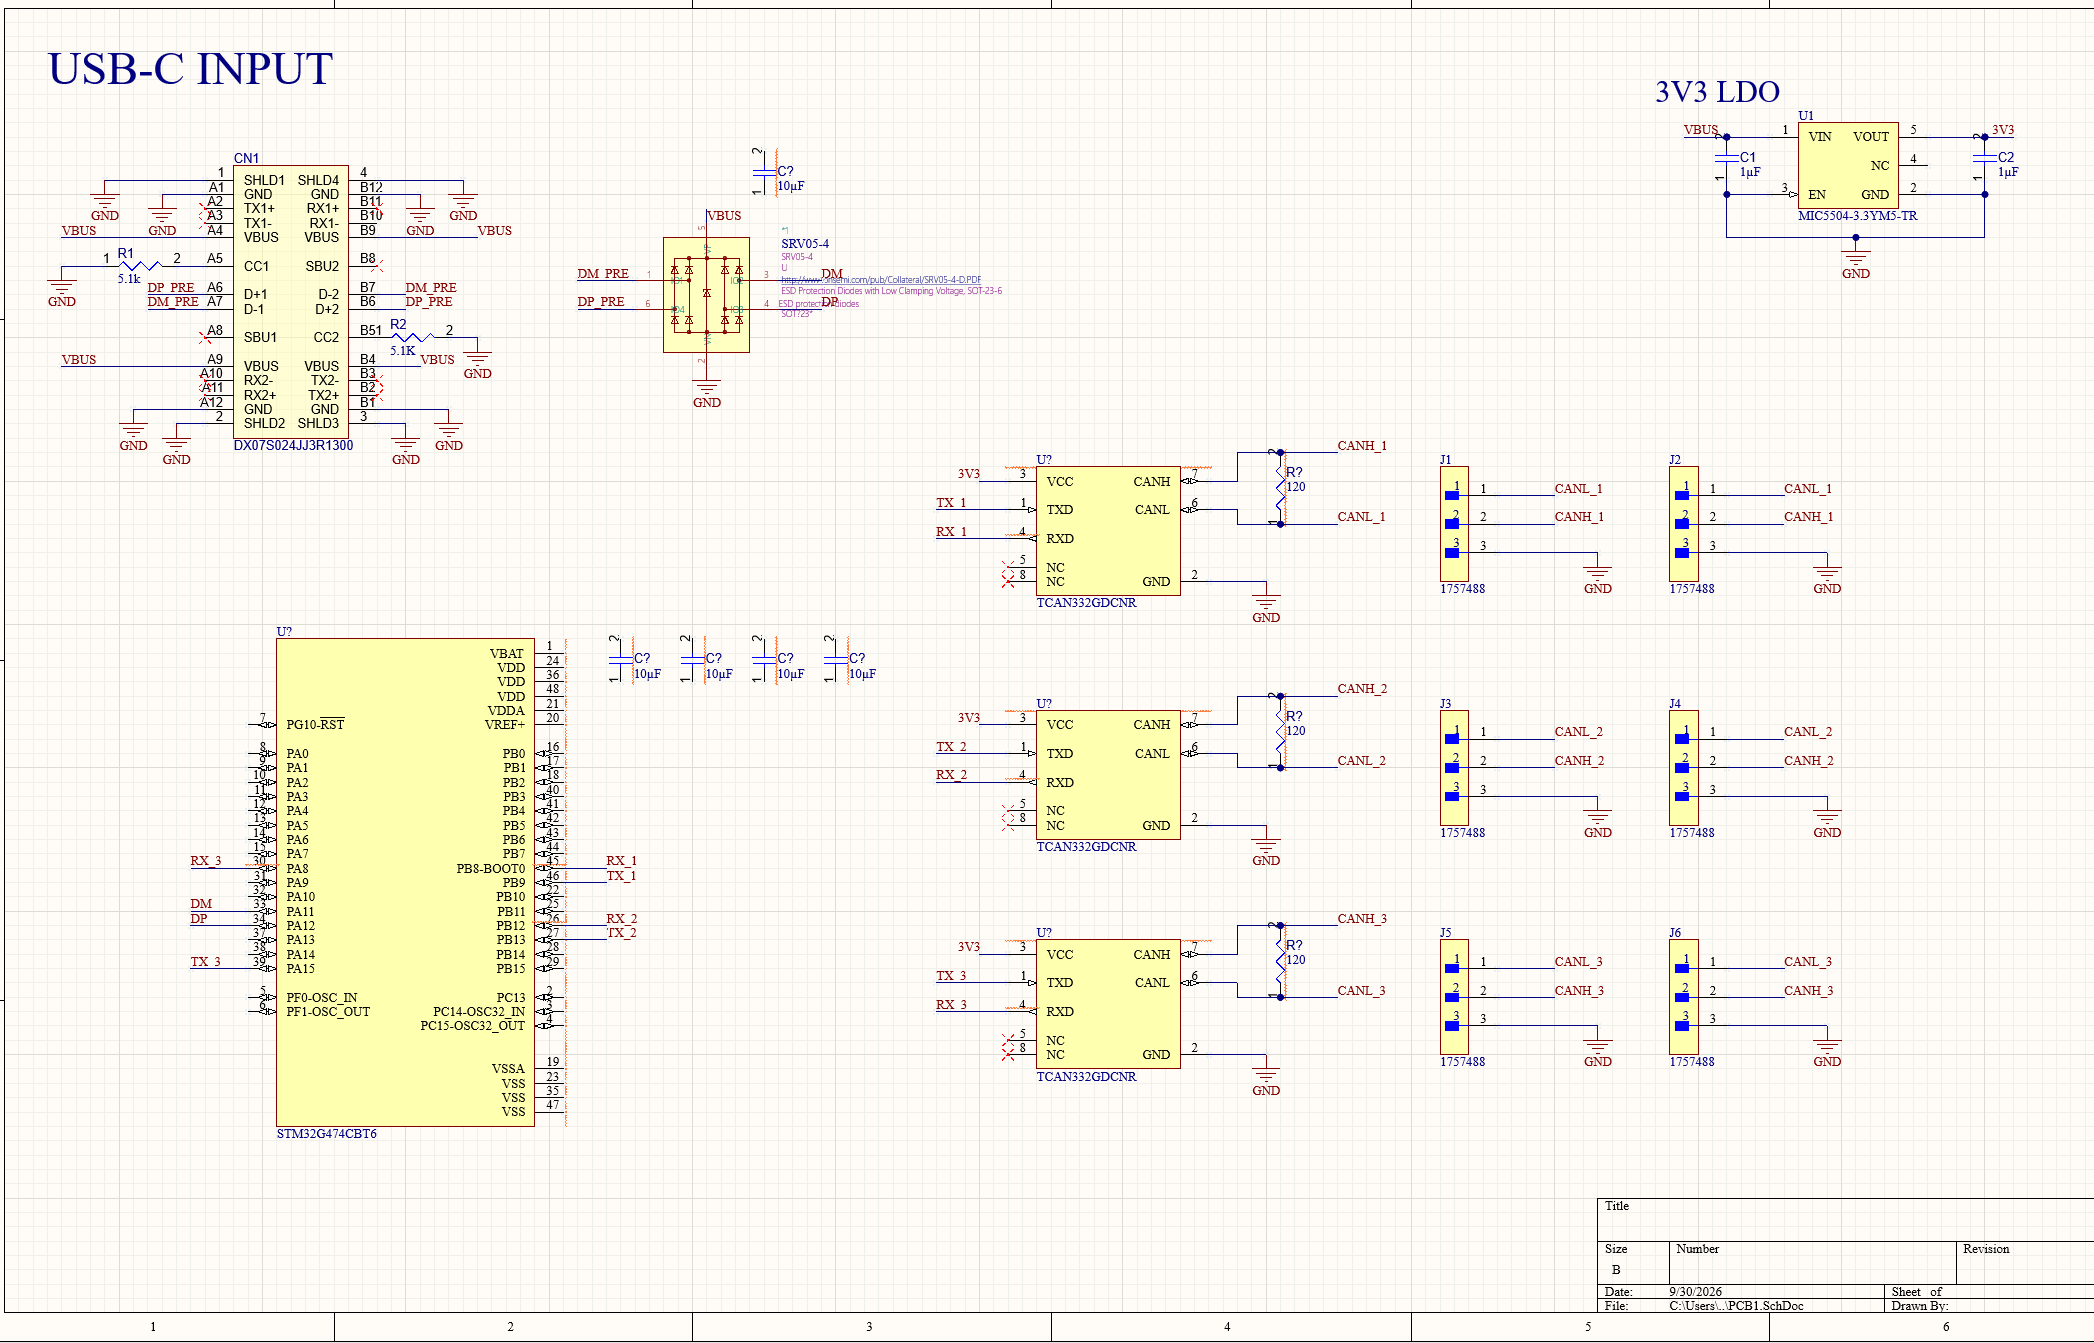
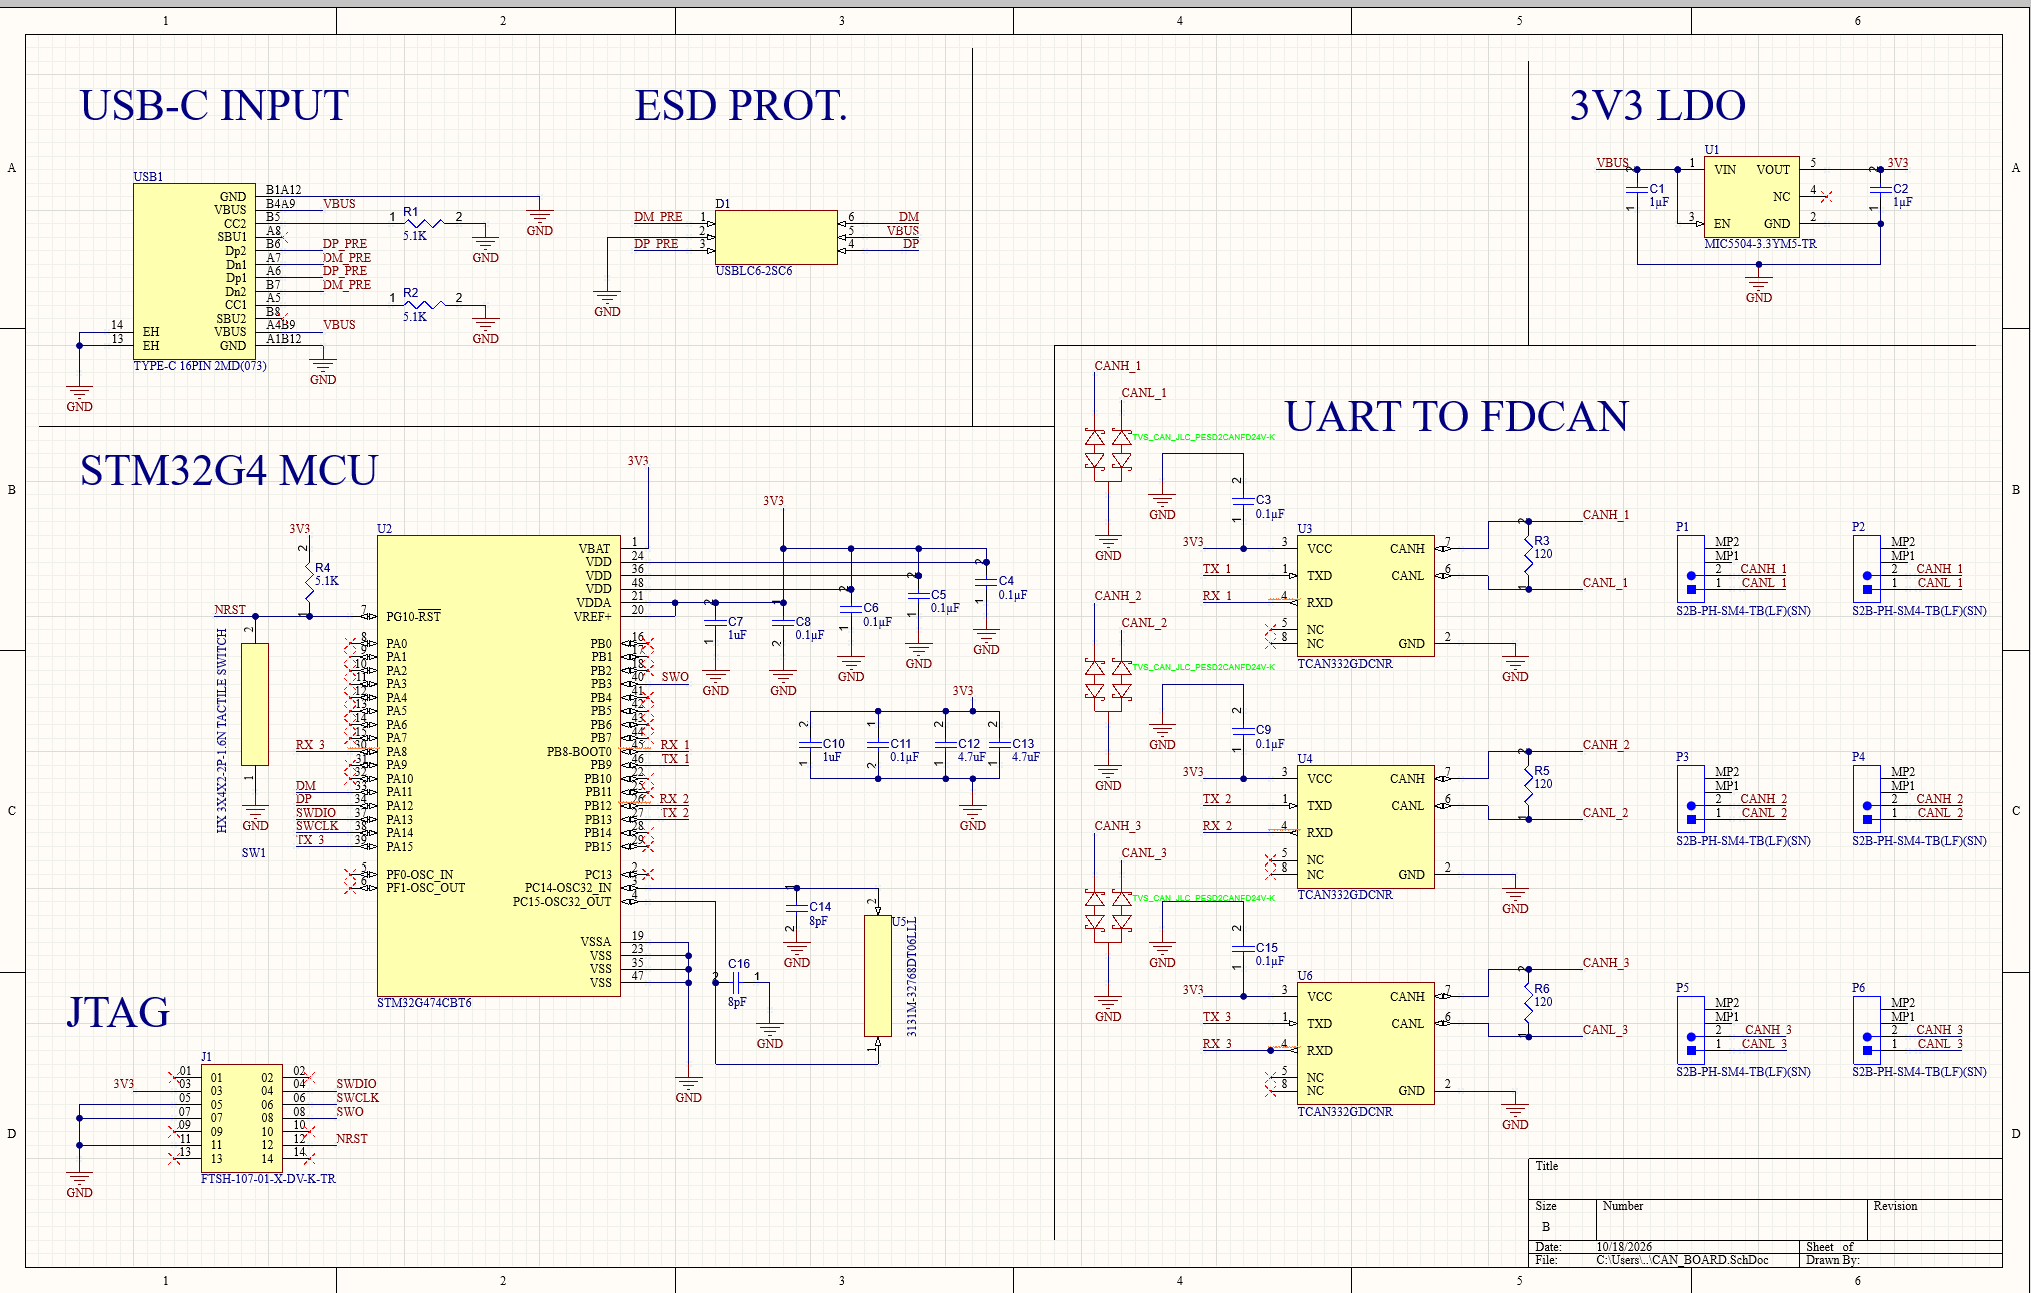
writing1

diff --git a/src/data/projects.js b/src/data/projects.js
@@ -117,7 +117,7 @@ export const projects = [
     description:
       'Cornell University Physical Intelligence (Autonomous Hexapod) - PCB for controlling actuator motion, full-stack firmware development for CAN communication buses. Takes USB-C input from the Jetson t5000 and converts to FDCAN differential bus for 18 actuators. Designed in Altium. Written in C and Python.',
     colors: ['#e89ab6', '#a9b7f0'],
-    images: [],
+    images: [/Images/Hardware/CAN/can-schematic.png],
     scores: [
       { label: 'Fun', value: 3, note: 'Fairly useful, but not particularly riveting.' },
       {
@@ -195,7 +195,7 @@ export const projects = [
       },
     ],
     skills: ['Embedded', 'KiCad', 'C++', 'Firmware'],
-    featured: true,
+    featured: false,
     wiki: site.wiki,
     github: 'https://github.com/syntonos/miniMP3',
   },
